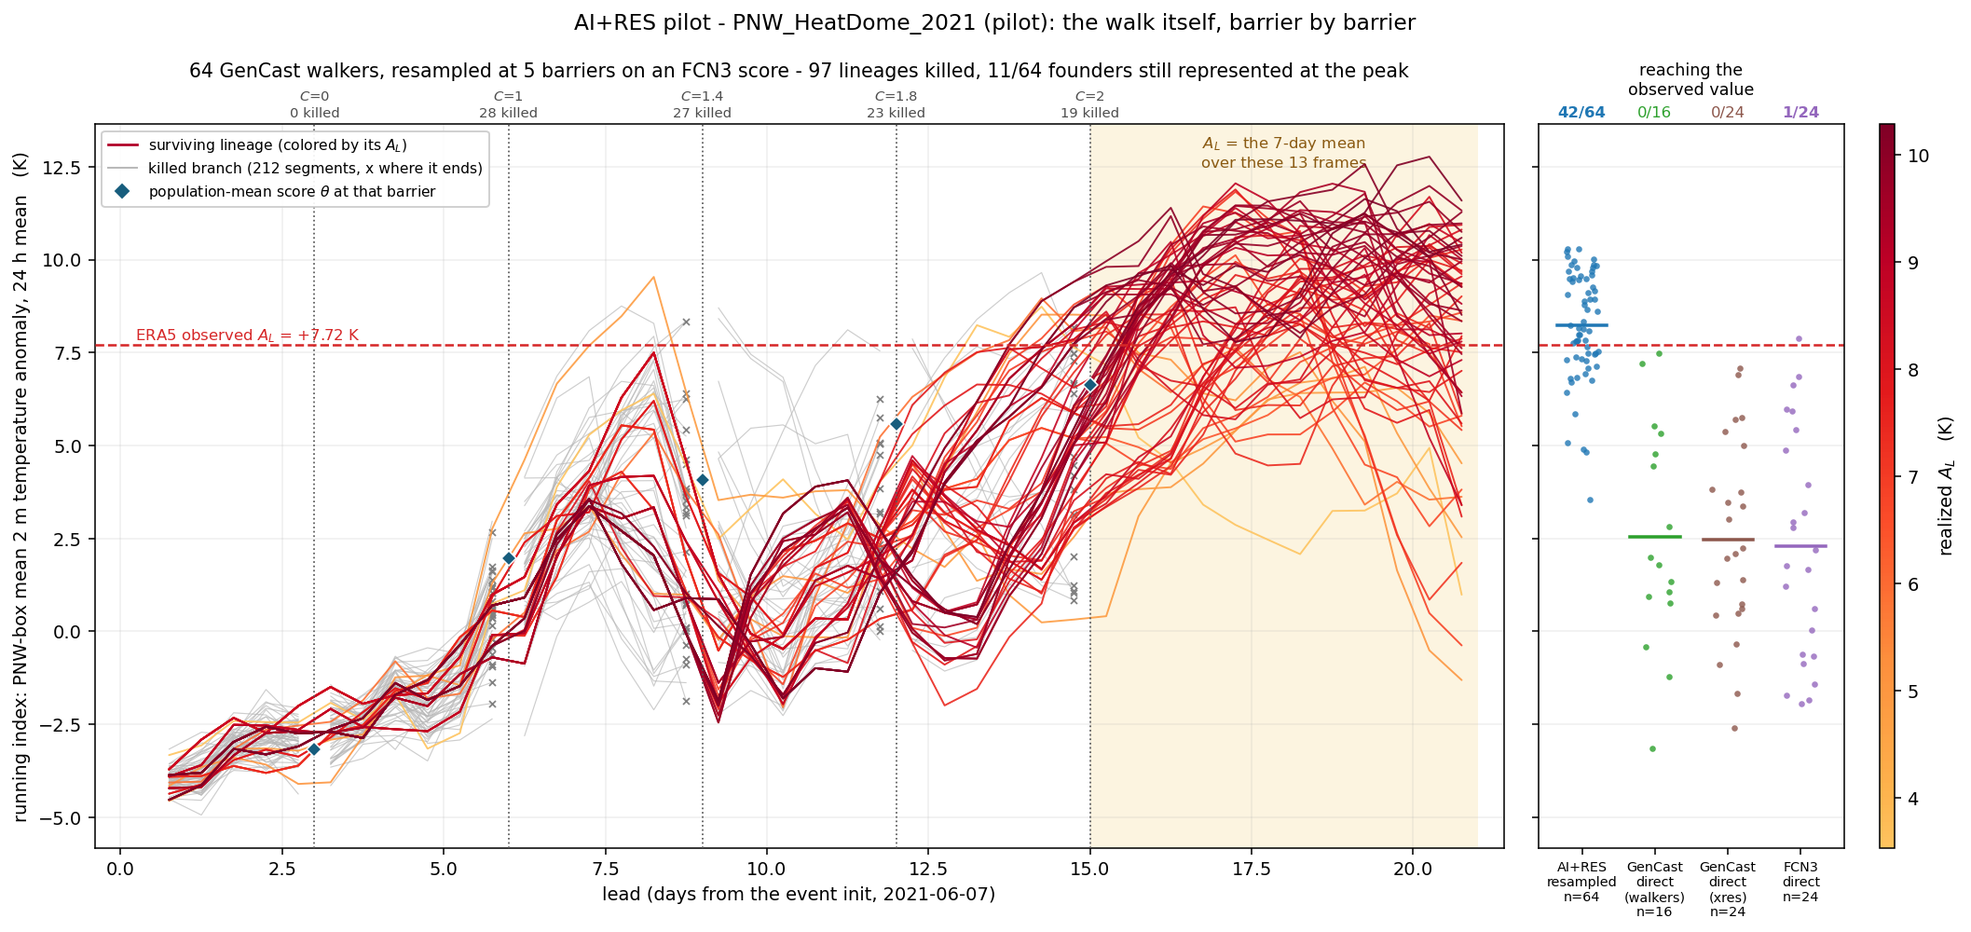
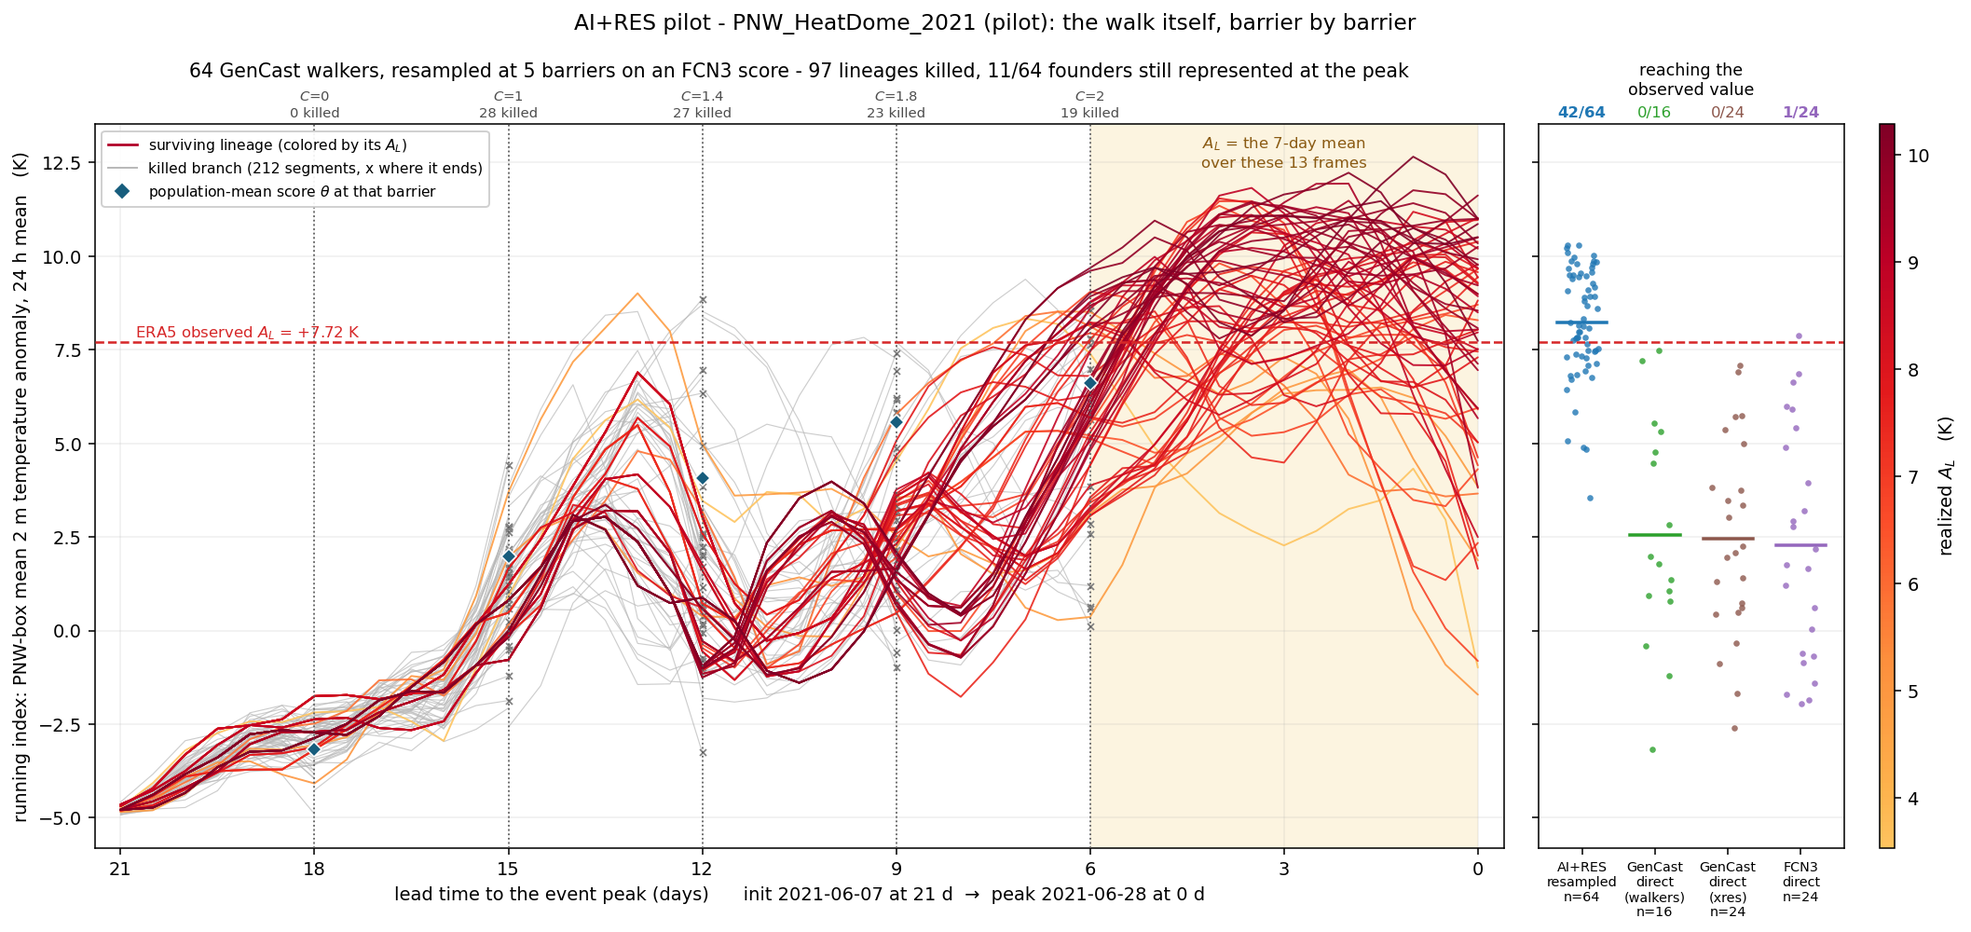
aires: the trajectory figure was drawing every curve half a step to the left
aplots.daily() was a 24 h running mean built as the mean of consecutive PAIRS,
returned on the pair MIDPOINTS. That slides a 12-hourly series 6 h. Nothing
errored; the figure just quietly disagreed with its own x axis. The forest
started at lead 0.75 d instead of 0.5, no polyline reached the peak, and every
killed branch's terminal x sat a quarter-day BEFORE the barrier that killed it,
which reads as the resampling acting one step early.

It is now the centred trapezoid over [t-12h, t+12h], weights (1, 2, 1)/4 - the
mean of the two pair means straddling t. Same exact null at the 24 h period,
which is the only reason the smoothing is there, but it stays on the sample's
own timestamp. Ends are closed with y[0]+y[1]-y[2] rather than mirrored:
mirroring collapses the filter to the pair mean, which is still diurnal-free but
is centred half a step inside the series, so the last point of every lineage -
the one on the event peak, where A_L is taken - would be pulled back down its
own trend. The end weights are then (0.75, 0.5, -0.25): exact on a linear trend,
still an exact 24 h null.

Branch polylines carry TWO lead-in frames from the parent instead of one and
drop the first after smoothing, so the point sitting ON a barrier gets a full
centred window and the branch starts exactly there.

Trajectories now also start at lead 0, from the event's ERA5 init rather than
from the first forecast frame at +12 h - one shared point all 64 fan out from,
[…]

diff --git a/docs/aires_pilot.html b/docs/aires_pilot.html
@@ -252,10 +252,10 @@
     <h2>Every branch the pilot rolled, from the init to the peak</h2>
   </div>
 
-  <p>The observable <span class="mono">A<sub>L</sub></span> is the cos(lat)-weighted mean, over a box covering Oregon and Washington, of the 7-day-mean 2&nbsp;m temperature anomaly for the week ending at the event peak. The vertical axis of Fig.&nbsp;1 is the same index evaluated frame by frame, that is, the value a walker holds at that moment rather than the value it will average to. It is plotted as a 24-hour running mean, because the raw 12-hourly index has a diurnal swing of several kelvin that on 64 lineages obscures the trend. The five dotted verticals mark the resampling barriers.</p>
+  <p>The observable <span class="mono">A<sub>L</sub></span> is the cos(lat)-weighted mean, over a box covering Oregon and Washington, of the 7-day-mean 2&nbsp;m temperature anomaly for the week ending at the event peak. The vertical axis of Fig.&nbsp;1 is the same index evaluated frame by frame, that is, the value a walker holds at that moment rather than the value it will average to. It is plotted as a 24-hour running mean centred on each frame, because the raw 12-hourly index has a diurnal swing of several kelvin that on 64 lineages obscures the trend. The horizontal axis is lead time <em>remaining</em> to the peak, so it counts down: every lineage leaves the shared ERA5 initial condition at 21&nbsp;days on the left and arrives at the peak at 0 on the right. The five dotted verticals mark the resampling barriers, which are quoted elsewhere in this page as lead from the init (3, 6, 9, 12 and 15&nbsp;d) and therefore fall at 18, 15, 12, 9 and 6&nbsp;days before the peak here.</p>
 
   <figure>
-    <div class="figbox"><img src="FIG_TRAJECTORY" alt="Trajectory plot: 64 walker lineages of PNW-box mean 2 m temperature anomaly against lead time from 0 to 21 days, with five dotted resampling barriers, grey killed branches, and the shaded 7-day averaging window at the right." loading="lazy"></div>
+    <div class="figbox"><img src="FIG_TRAJECTORY" alt="Trajectory plot: 64 walker lineages of PNW-box mean 2 m temperature anomaly against lead time counting down from 21 days to the event peak at 0, with five dotted resampling barriers, grey killed branches, and the shaded 7-day averaging window at the right." loading="lazy"></div>
     <figcaption><b>Figure 1. Every lineage of the pilot, init to peak.</b> Colored lines are the 64 lineages that survive to the peak, tinted by the <span class="mono">A<sub>L</sub></span> each one ends with. Grey lines are branches killed at a barrier, each marked with a small &times;. The shaded band at the right is the 7-day window over which <span class="mono">A<sub>L</sub></span> is averaged. The right panel gives where every method&rsquo;s members landed on the same axis, against the ERA5 value.</figcaption>
   </figure>
 
@@ -276,7 +276,7 @@
       </div>
       <div class="key">
         <span class="sw"><i class="band"></i></span>
-        <span class="tx"><b>The 7-day window</b>, lead 15&nbsp;d to 21&nbsp;d, thirteen 12-hourly frames ending at the peak. Everything to its left is the walk, and <span class="mono">A<sub>L</sub></span> is one average taken inside it. No resampling happens in the window, since the last barrier is at 15&nbsp;d and the event week is a free 6-day run-out.</span>
+        <span class="tx"><b>The 7-day window</b>, the last 6&nbsp;days of lead, thirteen 12-hourly frames ending at the peak. Everything to its left is the walk, and <span class="mono">A<sub>L</sub></span> is one average taken inside it. No resampling happens in the window, since the last barrier is at 15&nbsp;d from the init, 6&nbsp;d before the peak, and the event week is a free 6-day run-out.</span>
       </div>
       <div class="key">
         <span class="sw"><i class="obs"></i></span>

diff --git a/aires/aplots.py b/aires/aplots.py
@@ -77,8 +77,8 @@ def load(ctx: R.Ctx) -> dict:
 
 
 def _fig_path(ctx: R.Ctx, kind: str) -> Path:
-    A.fig_dir().mkdir(parents=True, exist_ok=True)
-    return A.fig_dir() / f"aires_{kind}_{ctx.event}_{ctx.tag}.png"
+    A.fig_dir(ctx.event).mkdir(parents=True, exist_ok=True)
+    return A.fig_dir(ctx.event) / f"aires_{kind}_{ctx.event}_{ctx.tag}.png"
 
 
 def _save(fig, path: Path) -> Path:
@@ -664,21 +664,88 @@ def _seg_index_series(ctx: R.Ctx, segment: int, n_walkers: int):
     return out
 
 
-def daily(x, y):
-    """A 24 h running mean of a 12-hourly series: the mean of each consecutive pair.
+def _init_index_series(ctx: R.Ctx):
+    """``(lead_days[2], box[2])`` for the event's ERA5 init frames, or ``None``.
+
+    ONE series, not 64: every walker is launched from these same two analysis frames, and
+    the walk's first FORECAST frame is at +12 h. Without this anchor the whole forest
+    starts half a day inside the axis, which reads as the trajectories being misaligned
+    with the axis rather than as the 12 h step it is. Carrying both frames (-12 h and 0 h)
+    also gives the lead-0 point a full centred smoothing window, so the curves leave the
+    origin at the same value they would have if the analysis ran on forever.
+
+    Returns ``None`` rather than raising if the init file is absent: it is built by the
+    xres prep stage and lives outside ``runs/aires``, so a tree copied to another machine
+    can be missing it, and losing the anchor is not worth losing the figure over.
+    """
+    from aires import aindex as AI
+
+    path = A.gencast_inputs_path(ctx.event)
+    if not path.exists():
+        print(f"    no init frames at {path}; drawing from the first forecast frame")
+        return None
+    want = list(METRIC_VARS[ctx.ev.metric])
+    with xr.open_dataset(path) as ds:
+        if any(v not in ds for v in want):
+            return None
+        d = ds[want].load()
+    if "batch" in d.dims:
+        d = d.isel(batch=0, drop=True)
+    box = AI.index_series(d, ctx.event, ctx.ev.metric)["box"]
+    t = pd.DatetimeIndex(d["time"].values)
+    lead = (t - pd.Timestamp(ctx.ev.init)).total_seconds() / 86400.0
+    d.close()
+    return np.asarray(lead, dtype=float), np.asarray(box.values, dtype=float)
+
+
+def _from_root(root, lead_s, box_s):
+    """A segment-1 polyline extended back onto the ERA5 init, ready for ``daily``."""
+    if root is None:
+        return daily(lead_s, box_s)
+    lead_r, box_r = root
+    return daily(np.concatenate([lead_r, lead_s]),
+                 np.concatenate([box_r, box_s]), drop_first=len(lead_r) - 1)
+
+
+def daily(x, y, drop_first: int = 0):
+    """A 24 h running mean of a 12-hourly series, CENTRED ON ITS OWN TIME AXIS.
 
     The raw index carries a real diurnal swing of several kelvin - a heat dome's daytime
     anomaly is much larger than its nighttime one, and the climatology is sampled per hour
     so the anomaly does not remove it - which on 64 lineages reads as noise and hides the
-    trend the figure is about. Averaging pairs is continuous ACROSS a barrier because every
-    branch polyline carries its parent's last frame as its first point, so smoothing each
-    branch independently reconstructs exactly the same curve as smoothing a whole lineage.
+    trend the figure is about.
+
+    The filter is the trapezoid over ``[t-12h, t+12h]``, weights ``(1, 2, 1)/4``, i.e. the
+    mean of the two consecutive-pair means straddling ``t``. Like a pair mean it is an
+    exact null at the 24 h period for a 12-hourly series, but unlike one it does not move
+    the sample off its own timestamp. That distinction is the whole point: an earlier
+    version returned the pair means on their midpoints, which slid every curve 6 h to the
+    left, so trajectories appeared to start at lead 0.75 d rather than 0.5 d and every
+    branch appeared to die a quarter-day BEFORE the barrier that actually killed it.
+
+    At a genuine end of a lineage there is no frame on one side, and the window is closed
+    with ``y[0] + y[1] - y[2]`` rather than by mirroring. Mirroring would collapse the
+    filter to the pair mean, which is still diurnal-free but is centred half a step inside
+    the series, so the last point of every lineage - the one sitting on the event peak,
+    where ``A_L`` is taken - would be pulled a quarter-day back down its own trend. This
+    padding is the one that makes the end weights ``(0.75, 0.5, -0.25)``: exact on a linear
+    trend, still an exact null at 24 h.
+
+    ``drop_first`` trims lead-in frames supplied only so that the first RETAINED point gets
+    a full centred window (see ``trajectory_tree``); it is applied after smoothing, so a
+    branch drawn from a barrier starts exactly ON that barrier.
     """
     x = np.asarray(x, dtype=float)
     y = np.asarray(y, dtype=float)
     if x.size < 2:
         return x, y
-    return 0.5 * (x[:-1] + x[1:]), 0.5 * (y[:-1] + y[1:])
+    if y.size >= 3:
+        lo, hi = y[0] + y[1] - y[2], y[-1] + y[-2] - y[-3]
+    else:
+        lo, hi = y[1], y[-2]                          # only a pair: mirror and accept it
+    pad = np.concatenate([[lo], y, [hi]])
+    sm = 0.25 * pad[:-2] + 0.5 * pad[1:-1] + 0.25 * pad[2:]
+    return x[drop_first:], sm[drop_first:]
 
 
 def _parent_slot(legs, parents_by_leg: dict, walker: int, segment: int):
@@ -719,6 +786,7 @@ def trajectory_tree(ctx: R.Ctx, d: dict) -> dict:
         print(f"    segment {s}: {seg[s][1].shape[1]} frames, "
               f"lead {seg[s][0][0]:.1f}-{seg[s][0][-1]:.1f} d")
 
+    root = _init_index_series(ctx)
     lin = d["realized"]["lineage"]
     alive = {(int(lin[i][str(s)]), s) for i in range(len(lin)) for s in segments}
 
@@ -751,12 +819,17 @@ def trajectory_tree(ctx: R.Ctx, d: dict) -> dict:
                 continue                      # drawn as part of a full surviving path
             p = _parent_slot(legs, par, w, s)
             if p is None:
-                x, y = lead_s, box_s[w]
+                xs, ys = _from_root(root, lead_s, box_s[w])
             else:
+                # TWO lead-in frames from the parent, not one. The branch has to be drawn
+                # from the barrier itself, and the point sitting ON the barrier only gets
+                # a full centred 24 h window if the frame before it is also present. The
+                # first is dropped after smoothing - it belongs to the parent's polyline.
                 lead_p, box_p = seg[s - 1]
-                x = np.concatenate([lead_p[-1:], lead_s])
-                y = np.concatenate([box_p[p][-1:], box_s[w]])
-            xs, ys = daily(x, y)
+                k = min(2, lead_p.size)
+                x = np.concatenate([lead_p[-k:], lead_s])
+                y = np.concatenate([box_p[p][-k:], box_s[w]])
+                xs, ys = daily(x, y, drop_first=k - 1)
             branches.append((xs.tolist(), ys.tolist()))
             if not kids.get((w, s)):
                 deaths.append((float(xs[-1]), float(ys[-1])))
@@ -767,7 +840,8 @@ def trajectory_tree(ctx: R.Ctx, d: dict) -> dict:
         if p is not None:
             killed[leg.k] = n - len(set(int(x) for x in p))
     return dict(lead=lead_art.tolist(), segments=segments, dead=branches,
-                deaths=deaths, killed=killed, n_dead_nodes=len(branches))
+                deaths=deaths, killed=killed, n_dead_nodes=len(branches),
+                root=None if root is None else [root[0].tolist(), root[1].tolist()])
 
 
 def plot_trajectory(ctx: R.Ctx, d: dict, tree: dict | None = None) -> Path:
@@ -776,6 +850,7 @@ def plot_trajectory(ctx: R.Ctx, d: dict, tree: dict | None = None) -> Path:
     import matplotlib.pyplot as plt
     from matplotlib import cm, colors
     from matplotlib.lines import Line2D
+    from matplotlib.ticker import MultipleLocator
 
     cfg = d["config"]
     legs = A.res_legs(cfg["leads"], cfg["horizon_days"], cfg["C"])
@@ -803,32 +878,48 @@ def plot_trajectory(ctx: R.Ctx, d: dict, tree: dict | None = None) -> Path:
     axm = fig.add_subplot(gs[0, 1], sharey=ax)
     cax = fig.add_subplot(gs[0, 2])
 
-    # --- the 7-day window A_L is the mean over ----------------------------------- #
+    # --- the x axis: LEAD TIME TO THE EVENT, counted down --------------------------- #
+    # Everything upstream carries lead-from-init (0 d at the init, 21 d at the peak),
+    # which is the natural coordinate for a forecast and the wrong one for this figure:
+    # the reader is watching a population converge on a fixed event, so the axis has to
+    # count down to it - 21 d of lead on the left, 0 d at the peak on the right. Time
+    # still runs left to right; only the coordinate is reversed. The conversion happens
+    # once, HERE, at the drawing boundary, so nothing upstream has to know about it and
+    # no annotation can drift out of step with the curves.
     peak_lead = float(cfg["horizon_days"])
+
+    def tb(v):
+        """lead-from-init (days) -> lead time remaining to the event peak (days)."""
+        return peak_lead - np.asarray(v, dtype=float)
+
+    # --- the 7-day window A_L is the mean over ----------------------------------- #
     win = np.asarray(_window_lead(ctx, d), dtype=float)
     w0, w1 = float(win.min()), float(win.max())
-    ax.axvspan(w0, w1, color="#f0c040", alpha=0.16, lw=0, zorder=0)
-    ax.text((w0 + w1) / 2, 0.985,
+    ax.axvspan(tb(w0), tb(w1), color="#f0c040", alpha=0.16, lw=0, zorder=0)
+    ax.text(tb(0.5 * (w0 + w1)), 0.985,
             f"$A_L$ = the 7-day mean\nover these {win.size} frames",
             transform=ax.get_xaxis_transform(), ha="center", va="top", fontsize=8.5,
             color="#8a5a12", linespacing=1.35)
 
     # --- killed branches, then the survivors on top ------------------------------ #
     for x, y in tree["dead"]:
-        ax.plot(x, y, "-", lw=0.6, color=DEAD_COLOR, alpha=0.7, zorder=1,
+        ax.plot(tb(x), y, "-", lw=0.6, color=DEAD_COLOR, alpha=0.7, zorder=1,
                 solid_capstyle="round")
     if tree["deaths"]:
         dx, dy = zip(*tree["deaths"])
-        ax.plot(dx, dy, "x", ms=3.6, mew=0.9, color="0.5", zorder=2)
+        ax.plot(tb(dx), dy, "x", ms=3.6, mew=0.9, color="0.5", zorder=2)
+    root = tree.get("root")
+    root = None if root is None else (np.asarray(root[0], dtype=float),
+                                      np.asarray(root[1], dtype=float))
     for i in np.argsort(al):                            # extremes drawn last, on top
-        xs, ys = daily(lead, series[i])
-        ax.plot(xs, ys, "-", lw=1.0, color=cmap(norm(al[i])), alpha=0.9,
+        xs, ys = _from_root(root, lead, series[i])
+        ax.plot(tb(xs), ys, "-", lw=1.0, color=cmap(norm(al[i])), alpha=0.9,
                 zorder=3, solid_capstyle="round")
 
     # --- the barriers ------------------------------------------------------------- #
     for leg, th in zip([l for l in legs if l.resampling],
                        list(theta) + [None] * len(legs)):
-        xb = leg.lead_end_days
+        xb = float(tb(leg.lead_end_days))
         ax.axvline(xb, color="0.35", lw=0.9, ls=":", zorder=4)
         k = tree["killed"].get(leg.k + 1)
         lab = f"$C$={leg.C:g}"
@@ -842,11 +933,18 @@ def plot_trajectory(ctx: R.Ctx, d: dict, tree: dict | None = None) -> Path:
 
     if obs is not None:
         ax.axhline(float(obs), color=OBS_COLOR, lw=1.3, ls="--", zorder=5)
-        ax.text(0.15, float(obs), f" ERA5 observed $A_L$ = {float(obs):+.2f} K",
+        ax.text(float(tb(0.15)), float(obs),
+                f" ERA5 observed $A_L$ = {float(obs):+.2f} K",
                 color=OBS_COLOR, fontsize=8.5, va="bottom", zorder=6)
 
-    ax.set_xlim(-0.4, peak_lead + 0.4)
-    ax.set_xlabel("lead (days from the event init, 2021-06-07)")
+    # Reversed limits rather than invert_xaxis(): the marginal panel shares only y, and a
+    # single set_xlim keeps the direction with the data instead of as a later mutation.
+    ax.set_xlim(float(tb(-0.4)), float(tb(peak_lead + 0.4)))
+    # Ticks every RES_SEG_DAYS so they land ON the barriers rather than between them.
+    ax.xaxis.set_major_locator(MultipleLocator(float(A.GATE3_SEG_DAYS)))
+    init_s, peak_s = str(cfg["init"])[:10], str(cfg["peak"])[:10]
+    ax.set_xlabel(f"lead time to the event peak (days)      "
+                  f"init {init_s} at {peak_lead:g} d  \u2192  peak {peak_s} at 0 d")
     ax.set_ylabel(_ylab(ctx))
     n_bar = sum(1 for l in legs if l.resampling)
     n_kill = sum(tree["killed"].values())

diff --git a/aires/tests/test_aplots.py b/aires/tests/test_aplots.py
@@ -70,6 +70,60 @@ def test_weighted_quantile_follows_the_weights():
 
 
 # --------------------------------------------------------------------------- #
+# The trajectory figure's time axis
+#
+# These pin an alignment defect that rendered without any error: the 24 h running mean was
+# the mean of consecutive PAIRS, returned on the pair midpoints, so every curve sat 6 h to
+# the left of the axis. The forest started at lead 0.75 d instead of 0.5, no polyline
+# reached the peak, and each killed branch's terminal x sat a quarter-day BEFORE the
+# barrier that killed it - which reads as the resampling acting one step early.
+# --------------------------------------------------------------------------- #
+def test_the_running_mean_stays_on_its_own_time_axis():
+    lead = np.arange(0.5, 21.01, 0.5)
+    xs, _ = P.daily(lead, np.zeros(lead.size))
+    assert np.allclose(xs, lead)
+
+
+def test_the_running_mean_annihilates_the_diurnal_cycle():
+    """A 24 h period sampled 12-hourly alternates in sign; the filter must null it.
+
+    Including at the two ENDS, and without dragging them back down the trend - the last
+    point of a lineage sits on the event peak, which is where ``A_L`` is taken.
+    """
+    lead = np.arange(0.5, 21.01, 0.5)
+    trend = 0.4 * lead
+    diurnal = 3.0 * (-1.0) ** np.arange(lead.size)
+    _, ys = P.daily(lead, trend + diurnal)
+    assert np.allclose(ys, trend, atol=1e-9)
+
+
+def test_a_branch_starts_exactly_on_its_barrier():
+    """With two lead-in frames and ``drop_first=1``, the first drawn point IS the barrier,
+    and it carries the same value the uninterrupted lineage has there."""
+    lead = np.arange(0.5, 21.01, 0.5)
+    y = 0.4 * lead + 3.0 * (-1.0) ** np.arange(lead.size)
+    _, full = P.daily(lead, y)
+    i = int(np.argmin(np.abs(lead - 6.0)))                  # the 6 d barrier
+    xb, yb = P.daily(lead[i - 1:], y[i - 1:], drop_first=1)
+    assert xb[0] == pytest.approx(6.0)
+    assert yb[0] == pytest.approx(full[i], abs=1e-9)
+
+
+def test_the_root_anchor_puts_every_lineage_on_lead_zero():
+    root = (np.array([-0.5, 0.0]), np.array([-6.0, -3.0]))
+    lead = np.arange(0.5, 3.01, 0.5)
+    xs, ys = P._from_root(root, lead, np.zeros(lead.size))
+    assert xs[0] == pytest.approx(0.0)
+    assert xs.size == ys.size == lead.size + 1
+
+
+def test_without_an_init_file_the_curve_still_starts_at_the_first_frame():
+    lead = np.arange(0.5, 3.01, 0.5)
+    xs, _ = P._from_root(None, lead, np.zeros(lead.size))
+    assert xs[0] == pytest.approx(0.5)
+
+
+# --------------------------------------------------------------------------- #
 # Rendering
 # --------------------------------------------------------------------------- #
 def _compare_dict(n=8):

diff --git a/aires/HANDOFF.md b/aires/HANDOFF.md
@@ -974,7 +974,26 @@ Traps hit drawing them, all cosmetic but all real:
 - The raw 12-hourly index has a real diurnal swing of several kelvin (a dome's daytime
   anomaly far exceeds its nighttime one, and the climatology is sampled per hour so the
   anomaly does not remove it). The trajectory figure plots a 24 h running mean, which is
-  continuous across a barrier because every branch polyline carries its parent's last frame.
+  continuous across a barrier because every branch polyline carries its parent's last frames.
+- **A running mean of consecutive PAIRS lands on the midpoints, not on the samples.** The
+  first version of `aplots.daily` returned `0.5*(x[:-1]+x[1:])`, which slid every curve on
+  the trajectory figure 6 h to the left: the forest appeared to start at lead 0.75 d, every
+  branch appeared to die a quarter-day BEFORE the barrier that killed it, and no polyline
+  reached the peak. It now uses the centred trapezoid `(1, 2, 1)/4` - the mean of the two
+  pair means straddling each frame, which is the same exact null at the 24 h period but
+  stays on the sample's own timestamp. Branch polylines therefore carry TWO lead-in frames
+  from the parent (`daily(..., drop_first=1)`) so the point sitting ON the barrier still
+  gets a full centred window.
+- **The x axis of the trajectory figure counts DOWN.** It is lead time remaining to the
+  peak (21 d at the init, 0 at the peak), converted from the upstream lead-from-init at the
+  drawing boundary only. Ticks are at `GATE3_SEG_DAYS` so they land on the barriers. Note
+  the pilot page quotes barriers as lead FROM the init (3, 6, 9, 12, 15 d), which on this
+  axis is 18, 15, 12, 9, 6 - `docs/aires_pilot.html` says so explicitly. The genealogy
+  figure's tree panel still uses lead-from-init.
+- Every trajectory is drawn from the event's ERA5 init (`A.gencast_inputs_path`), not from
+  the first forecast frame at +12 h, so all 64 leave one shared point at 21 d. That file is
+  built by the xres prep stage and lives outside `runs/aires`; `_init_index_series` returns
+  `None` and the figure falls back to starting at 0.5 d if it is absent.
 
 ## The pilot's probabilities as binned PDFs (job 1174) - the weighted tail reaches ERA5's
 
